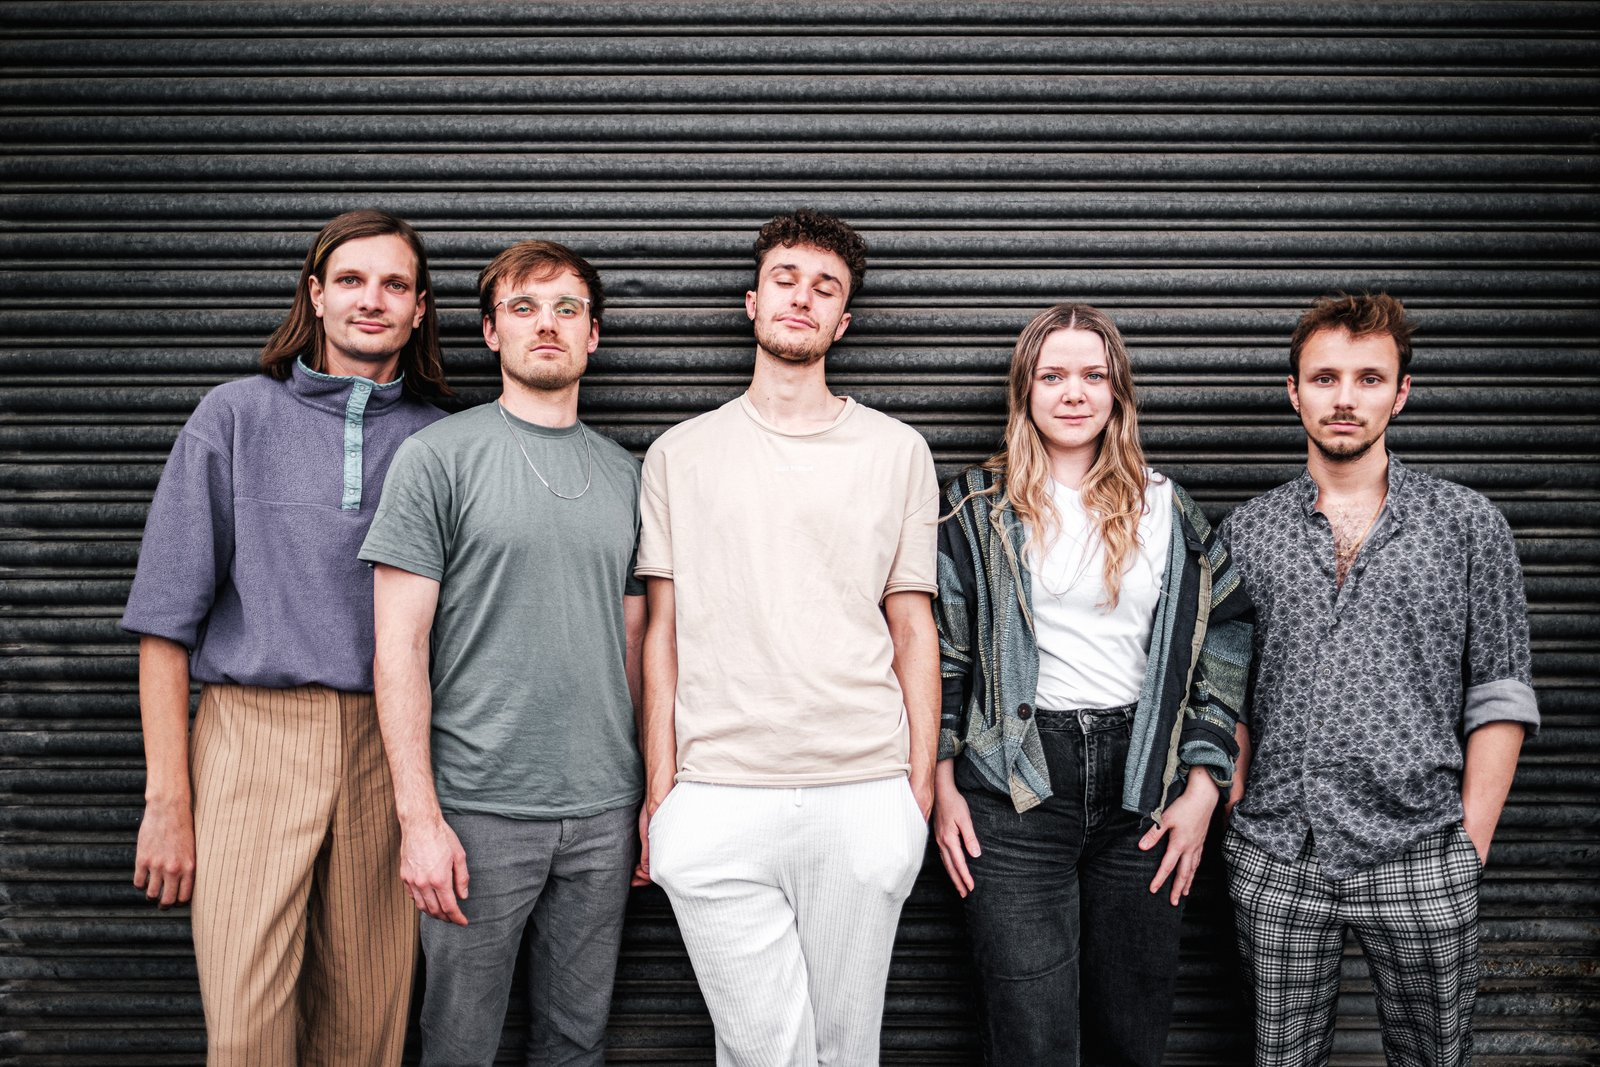
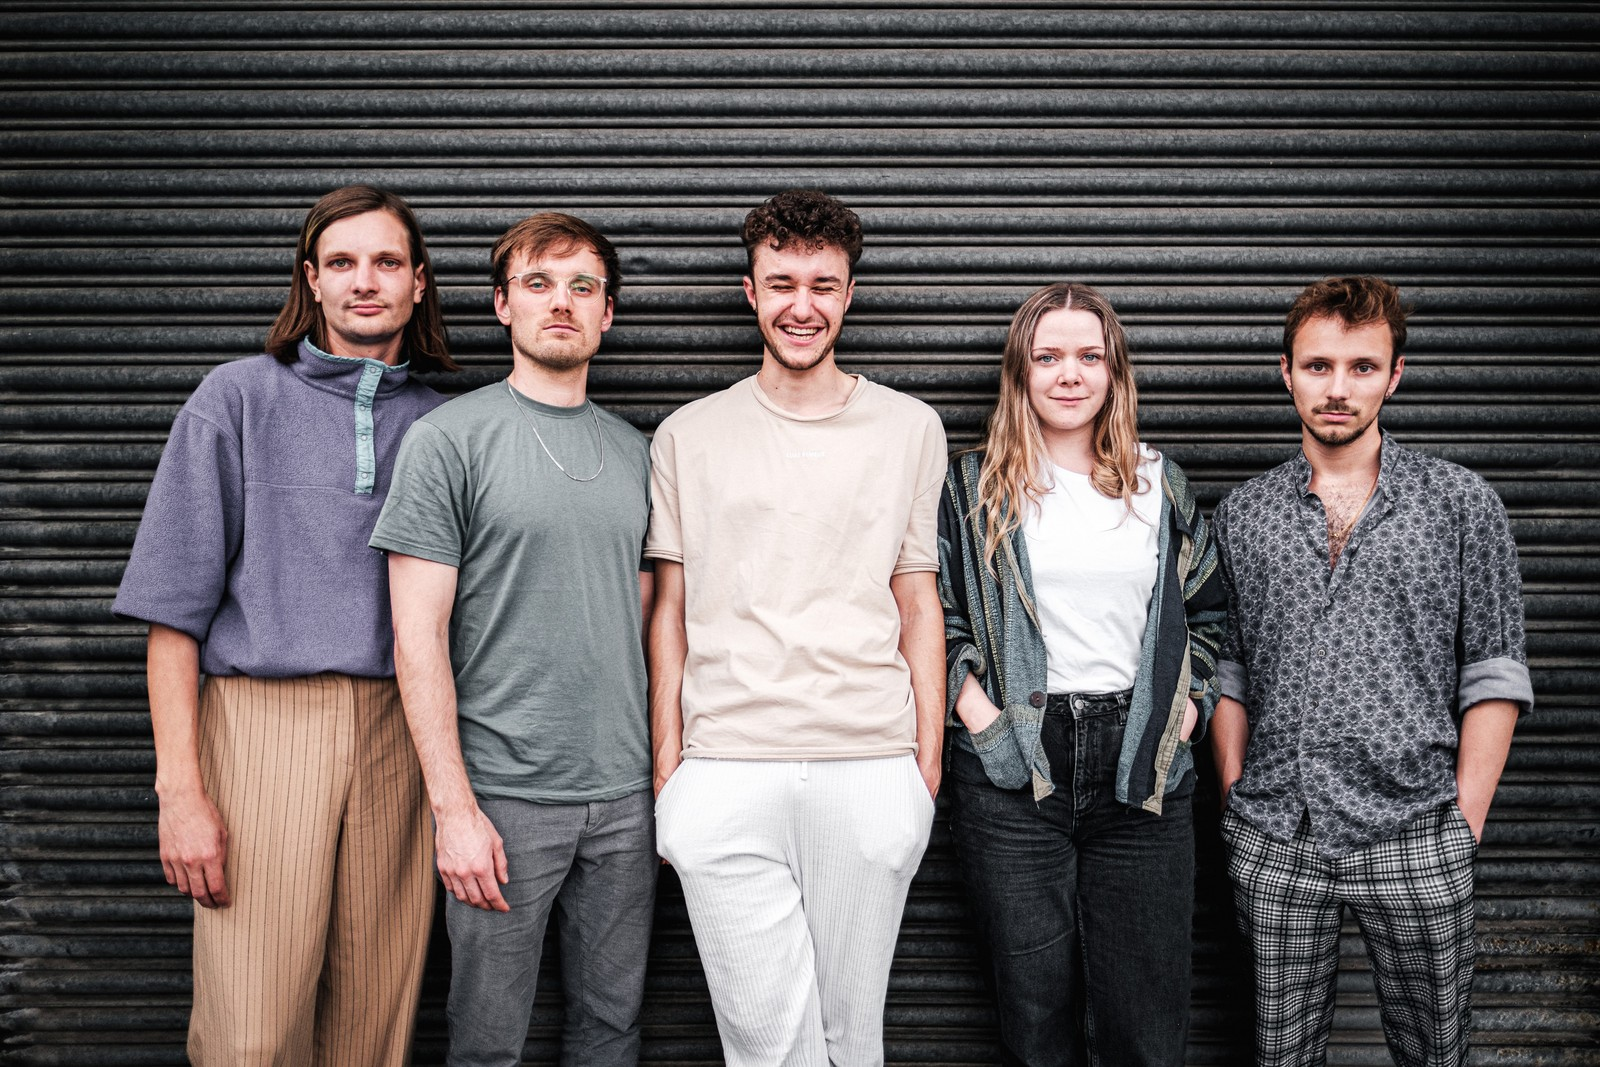
Bildergalerien durchklickbar machen (Pfeil-Navigation) + Bilder-Überschrift
Jakob-Bänsch-Foto #1 ausgetauscht.

diff --git a/assets/js/lightbox.js b/assets/js/lightbox.js
@@ -1,5 +1,7 @@
 (function () {
   var overlay = null;
+  var items = [];
+  var index = 0;
 
   function ensureOverlay() {
     if (overlay) return overlay;
@@ -7,25 +9,60 @@
     overlay.className = "lightbox-overlay";
     overlay.innerHTML =
       '<button type="button" class="lightbox-close" aria-label="Close">&times;</button>' +
-      '<img class="lightbox-img" alt="">';
+      '<button type="button" class="lightbox-nav lightbox-prev" aria-label="Previous image">' +
+      '<svg viewBox="0 0 24 24" aria-hidden="true"><path d="M15 5l-7 7 7 7" fill="none" stroke="currentColor" stroke-width="2" stroke-linecap="round" stroke-linejoin="round"/></svg></button>' +
+      '<img class="lightbox-img" alt="">' +
+      '<button type="button" class="lightbox-nav lightbox-next" aria-label="Next image">' +
+      '<svg viewBox="0 0 24 24" aria-hidden="true"><path d="M9 5l7 7-7 7" fill="none" stroke="currentColor" stroke-width="2" stroke-linecap="round" stroke-linejoin="round"/></svg></button>';
     document.body.appendChild(overlay);
 
     overlay.addEventListener("click", function (e) {
+      if (e.target.closest(".lightbox-prev")) {
+        e.stopPropagation();
+        show(index - 1);
+        return;
+      }
+      if (e.target.closest(".lightbox-next")) {
+        e.stopPropagation();
+        show(index + 1);
+        return;
+      }
       if (e.target === overlay || e.target.classList.contains("lightbox-close")) {
         close();
       }
     });
     document.addEventListener("keydown", function (e) {
+      if (!overlay.classList.contains("is-open")) return;
       if (e.key === "Escape") close();
+      if (e.key === "ArrowLeft") show(index - 1);
+      if (e.key === "ArrowRight") show(index + 1);
     });
     return overlay;
   }
 
-  function open(src, alt) {
+  function show(i) {
+    if (!items.length) return;
+    index = (i + items.length) % items.length;
     var ov = ensureOverlay();
     var img = ov.querySelector(".lightbox-img");
-    img.src = src;
-    img.alt = alt || "";
+    var trigger = items[index];
+    var triggerImg = trigger.tagName === "IMG" ? trigger : trigger.querySelector("img");
+    img.src = trigger.getAttribute("data-lightbox");
+    img.alt = triggerImg ? triggerImg.alt : "";
+    var multi = items.length > 1;
+    ov.querySelector(".lightbox-prev").style.display = multi ? "" : "none";
+    ov.querySelector(".lightbox-next").style.display = multi ? "" : "none";
+  }
+
+  function open(trigger) {
+    var group = trigger.closest(".epk-gallery, .epk-covers");
+    var scope = group || document;
+    items = Array.prototype.slice.call(scope.querySelectorAll("[data-lightbox]"));
+    if (!items.length) items = [trigger];
+    index = items.indexOf(trigger);
+    if (index === -1) index = 0;
+    var ov = ensureOverlay();
+    show(index);
     ov.classList.add("is-open");
     document.body.style.overflow = "hidden";
   }
@@ -40,7 +77,6 @@
     var trigger = e.target.closest("[data-lightbox]");
     if (!trigger) return;
     e.preventDefault();
-    var img = trigger.tagName === "IMG" ? trigger : trigger.querySelector("img");
-    open(trigger.getAttribute("data-lightbox"), img ? img.alt : "");
+    open(trigger);
   });
 })();

diff --git a/yamuna.html b/yamuna.html
@@ -96,6 +96,7 @@
   <div class="container">
     <p class="bio-text" style="max-width:68ch" data-i18n="yamuna.description">YAMUNA takes the listeners on a sonic journey through a landscape of various interwoven styles. The music primarily moves within the realm of hip-hop and naturally pushes the boundaries into jazz, drum and bass, lo-fi, and improvised music. YAMUNA invites you to question your own perception and explore the intersections between human and machine. The fusion of electronic elements with freely improvised passages creates a unique atmosphere that is both challenging and captivating.</p>
 
+    <h2 data-i18n="project.photosHeading">Photos</h2>
     <div class="epk-gallery">
       <button type="button" class="cover-trigger" data-lightbox="assets/images/yamuna-press-1.jpg">
         <img src="assets/images/yamuna-press-1.jpg" alt="Yamuna press photo" loading="lazy">

diff --git a/assets/css/style.css b/assets/css/style.css
@@ -841,6 +841,39 @@ a.project-card:hover {
   background: rgba(255, 255, 255, 0.22);
 }
 
+.lightbox-nav {
+  position: fixed;
+  top: 50%;
+  transform: translateY(-50%);
+  width: 44px;
+  height: 44px;
+  border: 0;
+  border-radius: 50%;
+  background: rgba(255, 255, 255, 0.12);
+  color: #fff;
+  cursor: pointer;
+  display: flex;
+  align-items: center;
+  justify-content: center;
+}
+
+.lightbox-nav svg {
+  width: 22px;
+  height: 22px;
+}
+
+.lightbox-nav:hover {
+  background: rgba(255, 255, 255, 0.22);
+}
+
+.lightbox-prev {
+  left: 1.25rem;
+}
+
+.lightbox-next {
+  right: 1.25rem;
+}
+
 @media (min-width: 700px) {
   .epk-hero .container { gap: 2rem; }
   .epk-covers { max-width: 44rem; }

diff --git a/jakob-baensch-quartett.html b/jakob-baensch-quartett.html
@@ -68,6 +68,7 @@
       <a class="date-link" href="https://jakobbaensch.com" target="_blank" rel="noopener">jakobbaensch.com</a>
     </div>
 
+    <h2 data-i18n="project.photosHeading">Photos</h2>
     <div class="epk-gallery epk-gallery--color">
       <button type="button" class="cover-trigger" data-lightbox="assets/images/baensch-photo-1.jpg">
         <img src="assets/images/baensch-photo-1.jpg" alt="Jakob Bänsch Quartett photo" loading="lazy">

diff --git a/ketzberg.html b/ketzberg.html
@@ -67,6 +67,7 @@
       <a class="date-link" href="https://ketzberg.com" target="_blank" rel="noopener">ketzberg.com</a>
     </div>
 
+    <h2 data-i18n="project.photosHeading">Photos</h2>
     <div class="epk-gallery epk-gallery--color">
       <button type="button" class="cover-trigger" data-lightbox="assets/images/ketzberg-photo-6.jpg">
         <img src="assets/images/ketzberg-photo-6.jpg" alt="Ketzberg photo" loading="lazy">

diff --git a/HANDOFF.md b/HANDOFF.md
@@ -343,6 +343,25 @@ statt iframe zeigen, iframe erst per Klick nachladen.
 
 ## Erledigt (chronologisch, neueste zuerst)
 
+- Bildergalerien jetzt durchklickbar (Pfeil-Navigation im Lightbox), plus
+  neue Überschrift "Bilder"/"Photos"/"Fotos" (i18n-Key
+  `project.photosHeading`, analog zu `project.videosHeading`) über den
+  reinen Foto-Galerien. `assets/js/lightbox.js` gruppiert Bilder jetzt
+  automatisch nach nächstgelegenem `.epk-gallery`- bzw.
+  `.epk-covers`-Container (`element.closest(...)`, keine neue Markup-
+  Attribute nötig) — dadurch bilden Yamunas Album-Cover (2 Bilder) und
+  Pressefotos (4 Bilder) zwei getrennte Klick-Kreise, während Härtel/Asals
+  Cover+4-Extra-Fotos (verschachtelt in `.epk-covers-extra` innerhalb von
+  `.epk-covers--mixed`) eine gemeinsame 5er-Gruppe bilden. Pfeile
+  (`.lightbox-prev`/`.lightbox-next`) mit Wrap-Around, Tastatur-Pfeiltasten
+  funktionieren zusätzlich zu Escape. "Bilder"-Überschrift bewusst nur bei
+  den eigenständigen Foto-Galerien ergänzt (Bänsch, Ketzberg, Yamunas
+  Pressefotos) — **nicht** bei Yamunas/Härtel-Asals Album-Cover-Block
+  (eigener "Out now"-Kontext) und nicht bei Jakob Manz/Loft Arts (haben gar
+  keine Fotogalerie, nur Videos). Jakob-Bänsch-Galerie: erstes Foto (#1)
+  ausgetauscht — Leo wollte explizit `Jakob_Bänsch_Quartett-203.jpg`
+  (Gruppenfoto vor Rolltor, gleiche Session wie das Vorschaubild), Dateiname
+  direkt mitgeschickt statt Bildvergleich nötig (2026-08-10)
 - Jakob-Bänsch-Galerie: letztes Foto (#4) ausgetauscht — Leo hat das
   gewünschte Foto direkt als Bild in den Chat gepastet (kein Dateipfad
   mitgeschickt), Zuordnung zur Originaldatei per visuellem Abgleich mit
